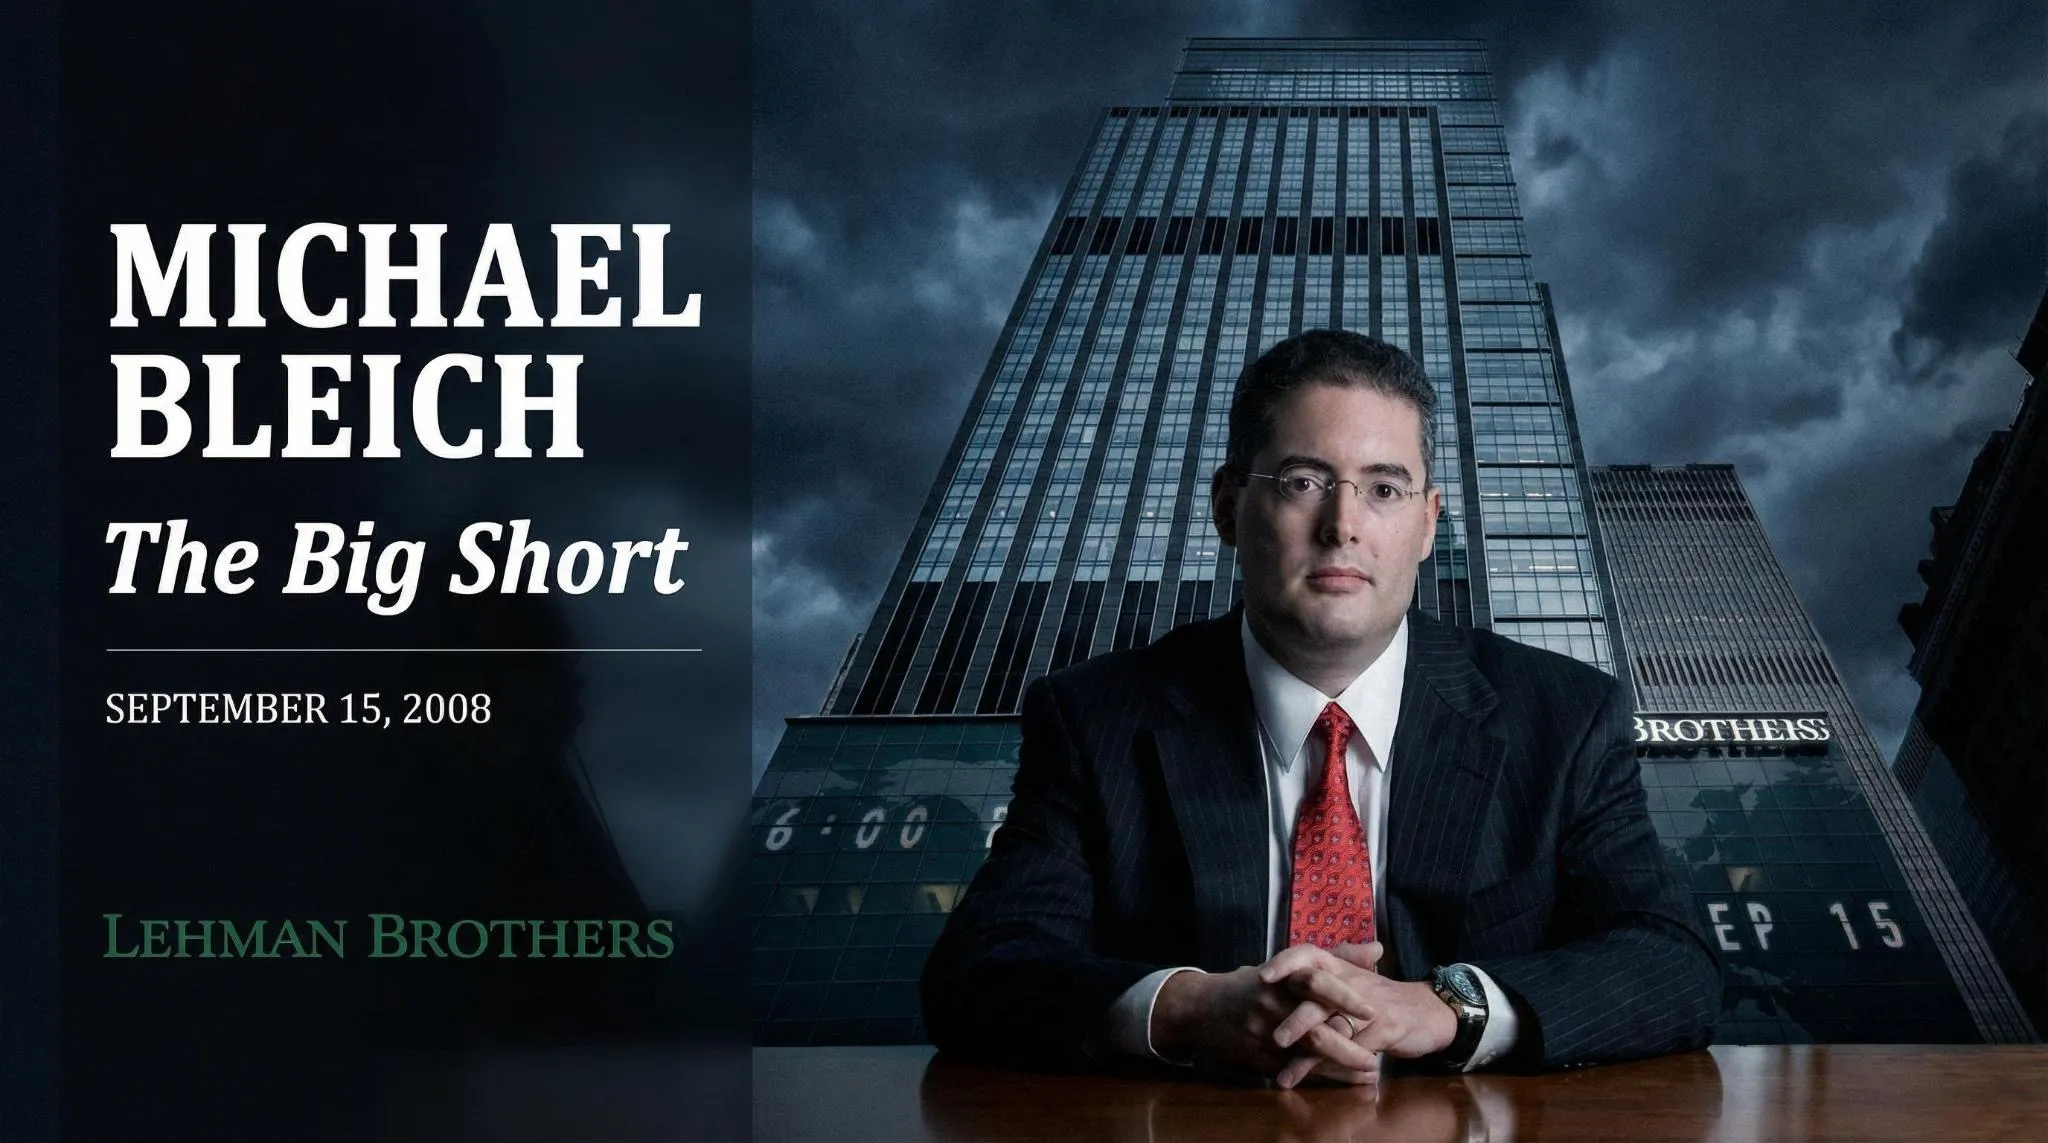
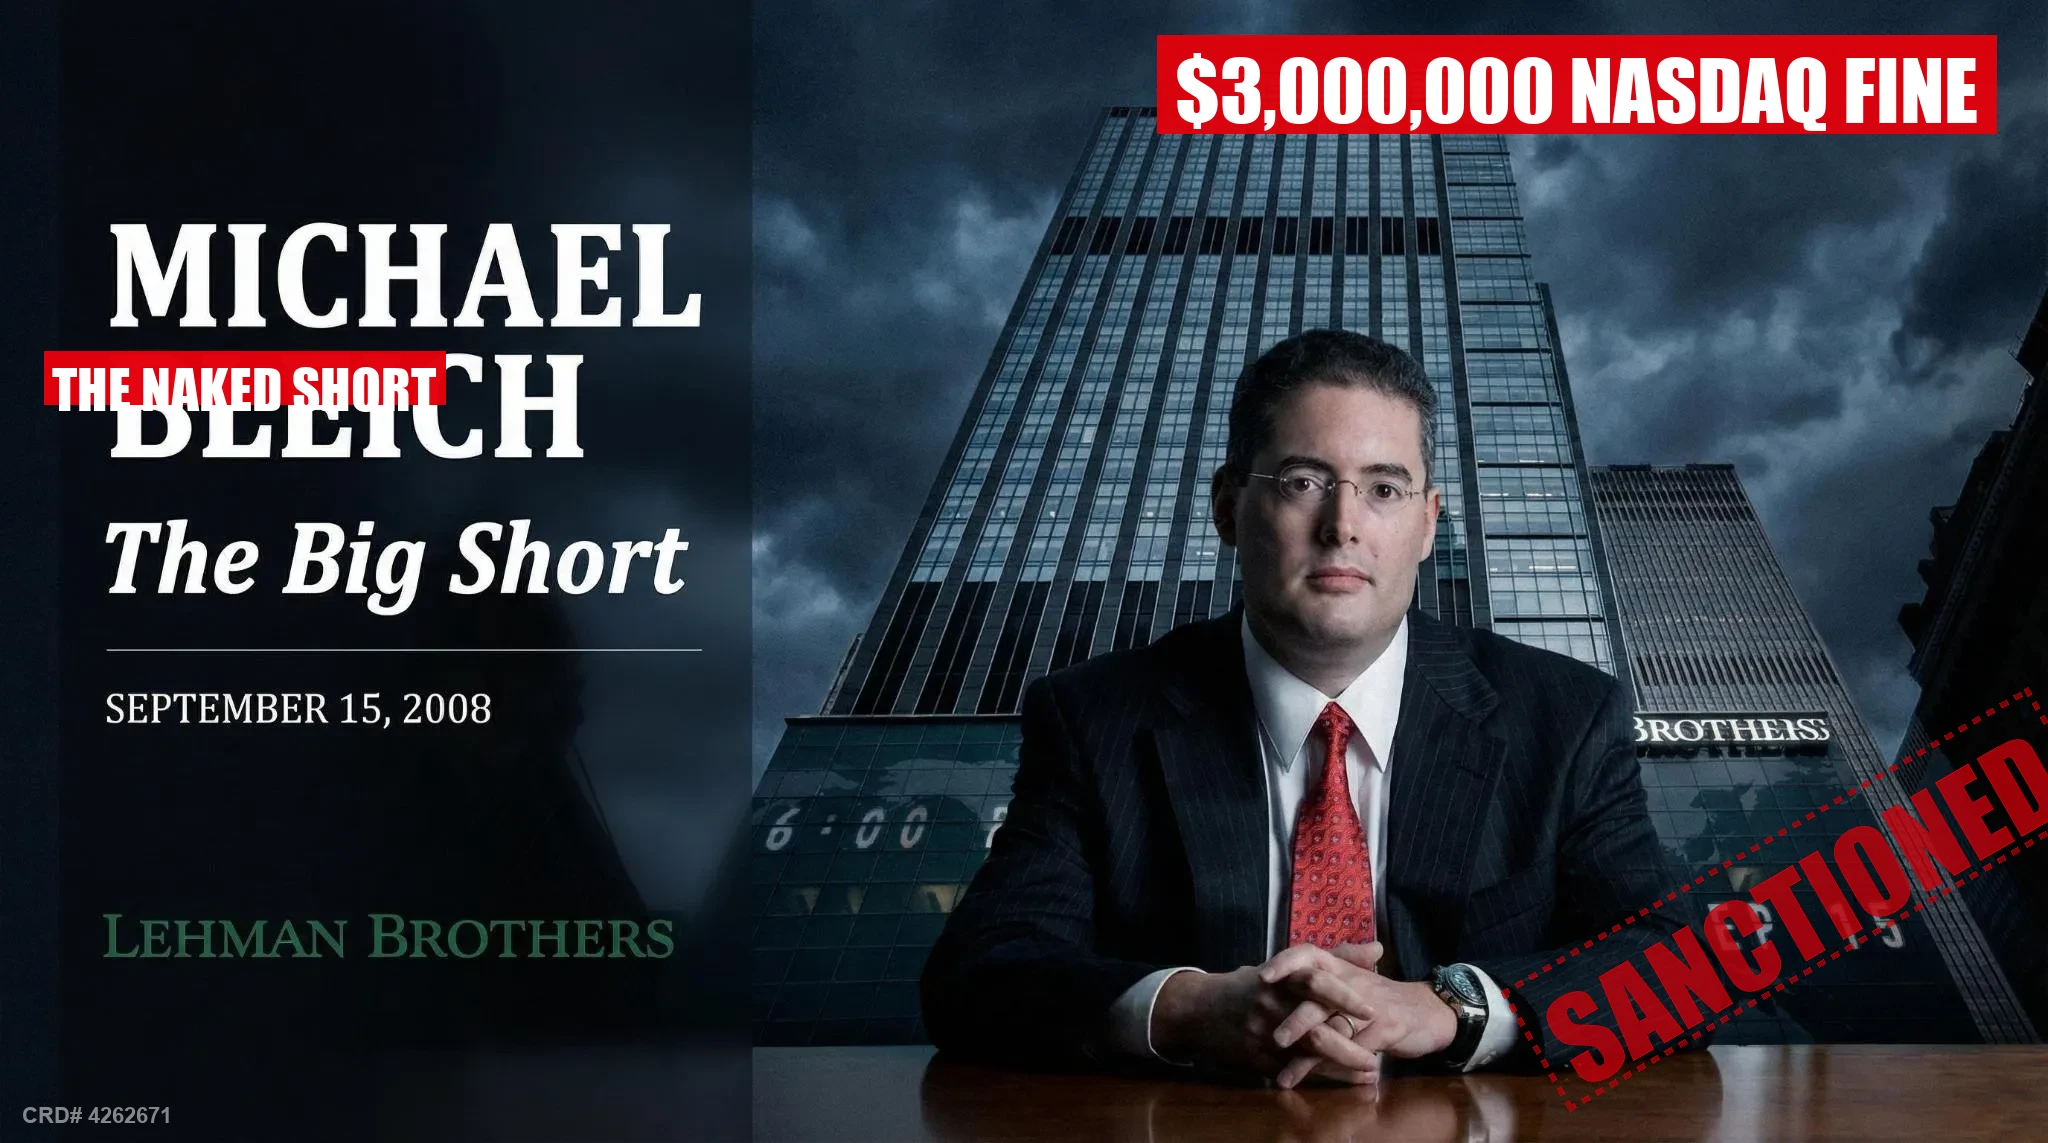
Bake hero overlays into image, fix MEBp.webp missing from git
- Modify MBBS1.webp: bake "$3,000,000 NASDAQ FINE", "THE NAKED SHORT",
  "SANCTIONED" stamp, and "CRD# 4262671" directly into the image
- Remove CSS stamp-overlay system (HTML divs + 55 lines of CSS) — text
  is now part of the image, not rendered by browser
- Track MEBp.webp in git (was untracked, causing broken Bleich card image)

diff --git a/styles.css b/styles.css
@@ -571,64 +571,6 @@ a.stamp.stamp-public:hover {
   text-transform: uppercase;
   position: relative;
   z-index: 1;
-}/* ── DIAGONAL STAMPS ON PHOTO — DISTRESSED RUBBER STAMP ───── */
-
-/* SVG filter for rough/distressed ink effect — on stamps only */
-
-.stamp-overlay {
-  position: absolute;
-  font-family: var(--font-label);
-  font-weight: 900;
-  letter-spacing: 4px;
-  text-transform: uppercase;
-  padding: 8px 22px;
-  z-index: 10;
-  pointer-events: none;
-  /* No fill — rubber stamp style */
-  background: transparent;
-  color: var(--red);
-  /* Rough uneven border via box-shadow layering */
-  box-shadow: 0 0 0 2px var(--red),
-    1px 1px 0 2px var(--red),
-    -1px 0px 0 2px var(--red),
-    0 -1px 0 2px var(--red),
-    2px -1px 0 1px var(--red),
-    -2px 1px 0 1px var(--red);
-  /* Distressed ink — slight opacity variation */
-  opacity: 0.88;
-  mix-blend-mode: multiply;
-}.stamp-overlay-severe {
-  font-size: 13px;
-  top: 28px;
-  right: -14px;
-  transform: rotate(12deg);
-  /* Slightly more worn */
-  opacity: 0.82;
-}.stamp-overlay-sanctioned {
-  font-size: 16px;
-  bottom: 18px;
-  right: -6px;
-  top: auto;
-  transform: rotate(-35deg);
-  opacity: 0.92;
-  letter-spacing: 6px;
-  padding: 6px 18px;
-  box-shadow: 0 0 0 3px var(--red), 2px 2px 0 3px var(--red), -2px -1px 0 3px var(--red);
-}.stamp-overlay-naked {
-  font-size: 13px;
-  top: 42%;
-  left: 8%;
-  right: auto;
-  transform: rotate(-4deg);
-  opacity: 0.90;
-  letter-spacing: 5px;
-  padding: 4px 14px;
-}.stamp-overlay-warn {
-  font-size: 11px;
-  top: 76px;
-  right: -8px;
-  transform: rotate(10deg);
-  opacity: 0.80;
 }/* ── PHOTO CAPTION ─────────────────────────────────────────── */
 .photo-caption {
   padding: 10px 14px;

diff --git a/index.html b/index.html
@@ -152,11 +152,7 @@
     <!-- HERO IMAGE — full width -->
     <div class="hero-photo-full">
       <div class="photo-area photo-area-img">
-        <!-- Diagonal stamps -->
-        <div class="stamp-overlay stamp-overlay-warn">295M Shares</div>
-        <div class="stamp-overlay stamp-overlay-sanctioned">Sanctioned</div>
-        <div class="stamp-overlay stamp-overlay-naked">Naked Short</div>
-        <img src="MBBS1.webp" alt="Michael E. Bleich" class="subject-photo" width="2048" height="1143" loading="eager">
+        <img src="MBBS1.webp" alt="Michael E. Bleich — $3,000,000 NASDAQ Fine, Sanctioned, The Naked Short" class="subject-photo" width="2048" height="1143" loading="eager">
       </div>
       <div class="photo-caption">
         <strong>Michael E. Bleich</strong> · CIO &amp; Indirect Owner, EntryPoint Capital LLC ·
